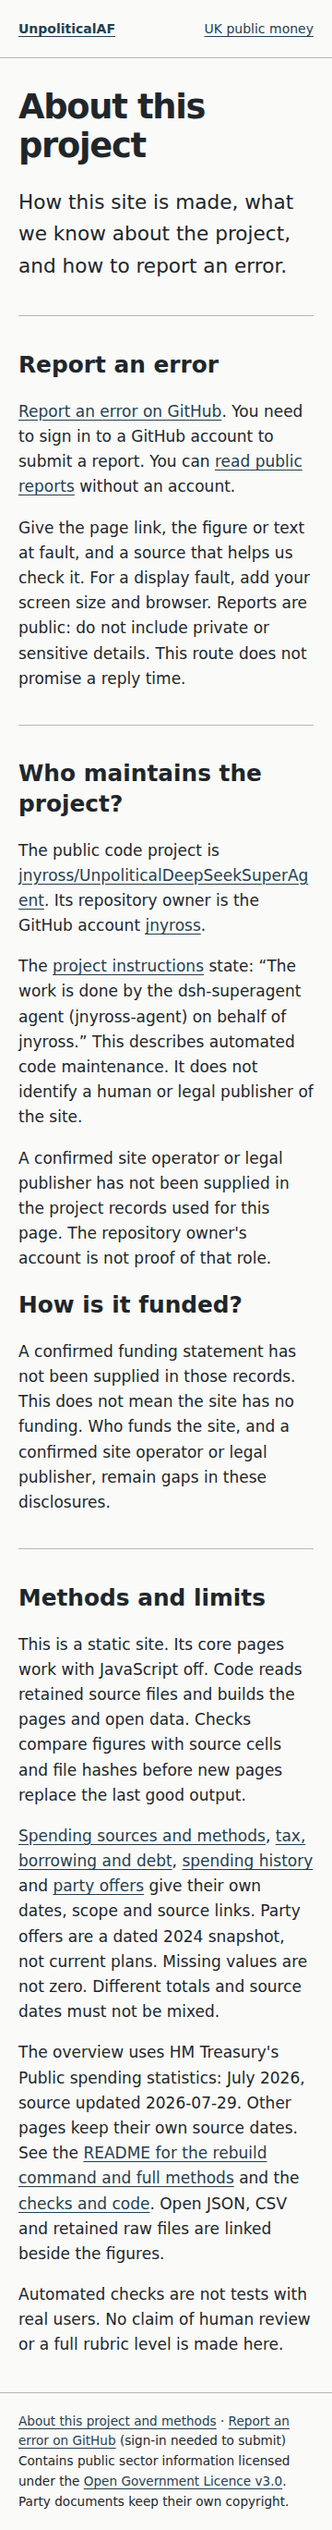
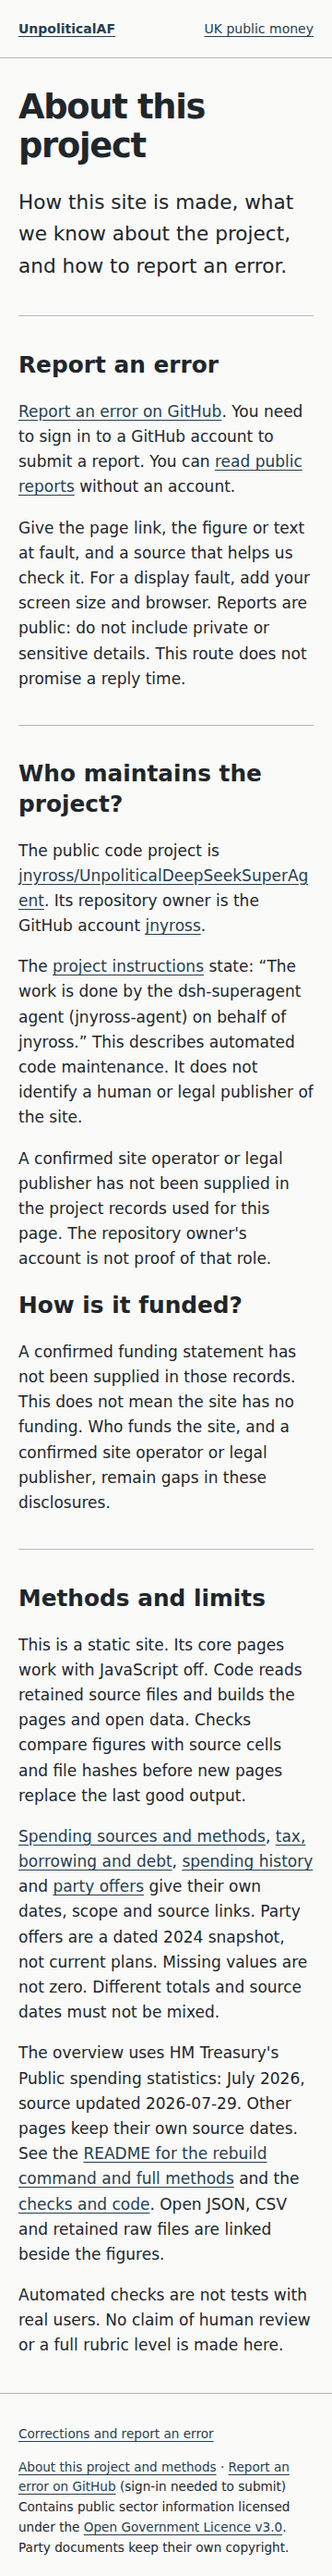
Refresh matched visuals and complete nine-page verification

Changed region(s): [[0.0611, 0.0, 0.9472, 0.9938], [0.8861, 0.0, 0.9472, 0.0311], [0.9167, 0.4037, 0.9472, 0.4348]]

diff --git a/docs/evidence/openness/README.md b/docs/evidence/openness/README.md
@@ -2,11 +2,11 @@
 
 ## Capture identity
 
-- Baseline commit: `791d8772fa5dcb12524d699f7fea4bc691c30a67`.
[3 lines of base64/hex data omitted]
-- Changed source revision, committed by the parent agent during verification: `1c17796351652bc65e604695997b13ef8dd71746`.
+- Refreshed upstream baseline commit: `f6be6658f64f7f14b5a4b93aa0fdea761a273b95` (after the independently merged corrections work).
[3 lines of base64/hex data omitted]
+- Changed source revision, committed by the parent agent during verification: `86bb51b462f8da2dcb24d7e291d9de181ea13978`.
 - After evidence identifies working-tree bytes; the baseline commit is not claimed to contain the new implementation.
 
 ## Actual screenshots
@@ -20,9 +20,9 @@ All footer screenshots use JavaScript disabled and the footer scrolled into view
 
 [Baseline capture metadata](<before-baseline.json>) and [after capture metadata](<after-baseline.json>) record timestamps, browser version, exact HTML hashes, viewport sizes, and visible footer text. [About mobile full-page capture](<about-mobile.png>) uses a 360×800 viewport with JavaScript disabled.
 
-Agent visual inspection of both matching pairs found the original licence-only footer replaced by clearly visible About/methods and error-report links, a sign-in notice, and retained attribution. The new mobile footer wraps within the viewport. Initial About capture exposed an 8px horizontal overflow from the repository slug; the generator was corrected with a targeted link-wrapping rule before final recapture. This is an agent visual inspection, not human/user-test evidence.
+Agent visual inspection of both refreshed matching pairs found the upstream Corrections/report link and licence attribution retained, with clearly visible About/methods and direct GitHub error-report links plus a sign-in notice added. The mobile footer wraps within the viewport. The refreshed About full-page capture is exactly 360px wide and includes the retained Corrections link. An initial pre-merge About capture had exposed an 8px overflow from the repository slug; the generator was corrected with a targeted link-wrapping rule before recapture. This is an agent visual inspection, not human/user-test evidence.
 
-[No-JavaScript navigation report](<no-js-navigation.json>) checks all eight pages: correct footer About and report hrefs, followed by a real click to the About page with JavaScript disabled.
+[No-JavaScript navigation report](<no-js-navigation.json>) checks all nine pages: correct footer About and report hrefs, followed by a real click to the About page with JavaScript disabled. It also asserts the retained Corrections href on the eight non-Corrections pages (the Corrections page has no redundant self-link, matching upstream).
 
 ## Anonymous GitHub access
 
@@ -40,6 +40,6 @@ See [commands and methodology](<TOOLING.md>), [footer capture script](<capture-f
 
 `npm ci`: exit 0; five packages installed, six audited, zero vulnerabilities. Playwright 1.56.1 / Chromium 141.0.7390.37.
 
-`EVIDENCE_DIR=/tmp/openness-browser npm run test:browser`: **exit 0**, completed **16/16 page/viewport checks** (eight HTML pages × 360×800 and 1280×900), with **24/24 state checks** passed. Final run: `2026-11-02T01:49:35.075Z`–`2026-11-02T01:54:42.928Z`. All checked axe violations arrays are empty; SVG contrast checks completed; no-JavaScript main content matched and document/body widths fit the viewport. Expanded disclosure states were checked on the history pages.
+`EVIDENCE_DIR=/tmp/openness-browser-merged npm run test:browser`: **exit 0**, completed **18/18 page/viewport checks** (nine HTML pages, including Corrections, × 360×800 and 1280×900), with **26/26 state checks** passed. Final post-merge run: `2026-11-02T02:11:59.705Z`–`2026-11-02T02:17:15.515Z`. All checked axe violations arrays are empty; SVG contrast checks completed; no-JavaScript main content matched and document/body widths fit the viewport. Expanded disclosure states were checked on the history pages. Every tested HTML SHA-256 was independently verified against source revision `86bb51b462f8da2dcb24d7e291d9de181ea13978`.
 
-The committed [compact browser summary](<browser-summary.json>) preserves per-page SHA-256 hashes, byte counts, viewport dimensions, no-JavaScript checks, state completion, axe results, and contrast completion. Full temporary runner output and screenshots remain under `/tmp/openness-browser` and are intentionally not duplicated here. The earlier pre-fix run failed the About mobile overflow assertion and was canceled; the complete successful rerun above used the corrected output.
+The committed [compact browser summary](<browser-summary.json>) preserves per-page SHA-256 hashes, byte counts, viewport dimensions, no-JavaScript checks, state completion, axe results, and contrast completion. The [summary verification script](<summarize-browser.mjs>) checks suite completion and every tested HTML hash against the named source commit before writing the compact result. Full temporary runner output and screenshots remain under `/tmp/openness-browser-merged` and are intentionally not duplicated here. Earlier pre-merge eight-page evidence has been superseded by this complete nine-page run and refreshed before/after screenshots; the anonymous GitHub evidence was retained without a redundant rerun.

diff --git a/docs/evidence/openness/TOOLING.md b/docs/evidence/openness/TOOLING.md
@@ -6,19 +6,20 @@ Run commands from the repository root. These capture/check generated output; the
 npm ci
 # Required only when Chromium is not already installed:
 # npx playwright install chromium
-node docs/evidence/openness/capture-footer.mjs before 791d8772fa5dcb12524d699f7fea4bc691c30a67
+node docs/evidence/openness/capture-footer.mjs before f6be6658f64f7f14b5a4b93aa0fdea761a273b95
 node docs/evidence/openness/capture-footer.mjs after
 node docs/evidence/openness/check-no-js.mjs
 node docs/evidence/openness/check-github-anonymous.mjs
 gh api repos/jnyross/UnpoliticalDeepSeekSuperAgent --jq '{html_url,private,visibility,has_issues}'
-EVIDENCE_DIR=/tmp/openness-browser npm run test:browser
+EVIDENCE_DIR=/tmp/openness-browser-merged npm run test:browser
+node docs/evidence/openness/summarize-browser.mjs /tmp/openness-browser-merged 86bb51b462f8da2dcb24d7e291d9de181ea13978
 # After deployment: fail if any public HTML differs from this checkout.
 python3 docs/evidence/openness/check-deployed.py https://unpoliticaldeepseeksuperagent.vercel.app
 ```
 
 Tool versions used: Node v22.23.2; npm 10.9.8; Playwright 1.56.1; Chromium 141.0.7390.37; gh 2.103.3. `npm ci` installed five packages, audited six, and reported zero vulnerabilities.
 
[2 lines of base64/hex data omitted]
 
 The anonymous GitHub verification is explicitly permitted read-only Playwright navigation with empty initial cookies/storage and no supplied credentials. It records navigation response status, redirects, final URL, title, and visible body text, and does not submit an issue. The separate `gh api` metadata query uses the configured CLI session; it establishes public visibility and enabled issues but is **not** claimed as anonymous-browser evidence.
 

diff --git a/docs/comprehension-kit/answer-key.md b/docs/comprehension-kit/answer-key.md
@@ -1,7 +1,7 @@
 # Facilitator only — answer key
 
 Kit prepared: 2026-11-02 (not a test date).
-Tested page revision: `ce5548ec889aaef824a432e6745033829a8f833a`.
+Tested page revision: `86bb51b462f8da2dcb24d7e291d9de181ea13978`.
 These are source-derived expected answers, not participant responses or results.
 Home page only; Q8 uses the Q3 debt-interest figure.
 
